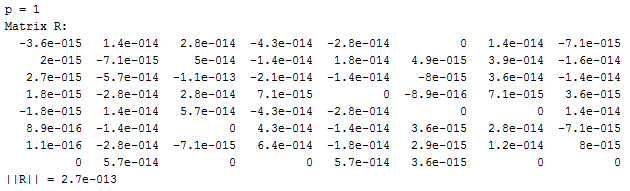
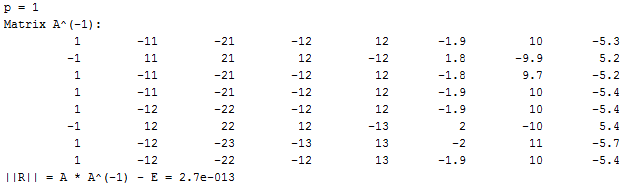
lab2 is done

diff --git a/lab2/lab2.tex b/lab2/lab2.tex
@@ -11,7 +11,7 @@
 \norm{R} = \max_k \sum_j |R_{kj}|.
 \]
 
-Используя подпрограммы \texttt{DECOMP} и \texttt{SOLVE}, вычислить $A^{-1}$ по заданной матрице $A$. Для различных значений $p$ вычислить нормы матриц $R$.
+Используя подпрограммы \textbf{DECOMP} и \textbf{SOLVE}, вычислить $A^{-1}$ по заданной матрице $A$. Для различных значений $p$ вычислить нормы матриц $R$.
 
 \section{Исходные данные}
 
@@ -38,12 +38,145 @@
 	$p = 0.00001$
 \end{multicols}
 
-\section{Вычисления}
+\section{Выполнение работы}
+
+В процессе работы была разработана программа на языке \textbf{C++}, вычисляющая искомую матрицу $R$ (см.~листинг~\ref{code:main}). Для упрощения взаимодействия с матрицами был разработан класс \textbf{Matrix} (см.~листинг~\ref{code:matrix}). Для нахождения обратной матрицы использовались подпрограммы \textbf{DECOMP} и \textbf{SOLVE}. На рисунках \ref{fig:p1} -- \ref{fig:p5} изображен вывод программы для заданных значений параметра $p$.
+
+\begin{figure}[H]
+\begin{center}
+	\includegraphics[scale=0.88]{1}
+	\caption{Вывод программы при $p = 1$}
+	\label{fig:p1}
+\end{center}
+\end{figure}
+
+\vspace{-1.3cm}
+
+\begin{figure}[H]
+\begin{center}
+	\includegraphics[scale=0.88]{2}
+	\caption{Вывод программы при $p = 0.1$}
+	\label{fig:p2}
+\end{center}
+\end{figure}
+
+\vspace{-1cm}
+
+\begin{figure}[H]
+\begin{center}
+	\includegraphics[scale=0.88]{3}
+	\caption{Вывод программы при $p = 0.01$}
+	\label{fig:p3}
+\end{center}
+\end{figure}
+
+\vspace{-1cm}
+
+\begin{figure}[H]
+\begin{center}
+	\includegraphics[scale=0.88]{4}
+	\caption{Вывод программы при $p = 0.001$}
+	\label{fig:p4}
+\end{center}
+\end{figure}
+
+\vspace{-1cm}
+
+\begin{figure}[H]
+\begin{center}
+	\includegraphics[scale=0.88]{5}
+	\caption{Вывод программы при $p = 0.00001$}
+	\label{fig:p5}
+\end{center}
+\end{figure}
+
+\newpage
 
 \section{Результаты}
 
+Сравним значения, получившиеся путем изменения параметра p:
+
+\begin{table}[H]
+\begin{center}
+	\caption{Полученные результаты}
+	\def\tabcolsep{15pt}
+	\begin{tabular}{|c|c|c|c|c|c|}
+		\hline
+		$p$ &
+		$1$ &
+		$0.1$ &
+		$0.01$ &
+		$0.001$ &
+		$0.00001$ \\
+		\hline
+		$||R||$ &
+		$2.7\cdot 10^{-13}$ &
+		$4.2\cdot 10^{-12}$ &
+		$3.4\cdot 10^{-11}$ &
+		$3.8\cdot 10^{-10}$ &
+		$2.4\cdot 10^{-8}$ \\
+	    \hline	
+	\end{tabular}
+	\label{tab:results}
+\end{center}
+\end{table}
+
+Из таблицы \ref{tab:results} видно, что при уменьшении параметра $p$ значения элементов матрицы $R$ увеличиваются, и, следовательно, ее норма растет. Выясним, сохраняется ли тенденция при еще меньших значениях параметра $p$. Для этого будем изменить $p$ в диапазоне $10^{-14}~\div~1$. Полученный график изменения нормы матрицы $R$ в зависимости от параметра $p$ в логарифмической шкале изображен на рисунке \ref{fig:p}. Из графика видно, что значение $||R||$ практически линейно зависит от параметра $p$.
+
+\begin{figure}[H]
+\begin{center}
+	\begin{tikzpicture} [every plot/.append style={thick}]
+		\begin{axis}[
+			height=0.4\textheight,
+			width=0.9\textwidth,
+			legend pos=north east,
+			xlabel={$\lg p$},
+			ylabel={$\lg ||R||$},
+			xlabel near ticks,
+			ylabel near ticks,
+			xmode=log,
+			log basis x=10,
+			xmin=1e-16,
+			xmax=1e2,
+			xtick={1e-14, 1e-12, 1e-10, 1e-8, 1e-6, 1e-4, 1e-2, 1e0},
+			ymode=log,
+			log basis y=10,
+			ymin=1e-16,
+			ymax=1e4,
+			grid=major
+		]
+		\addplot table[x=p,y=norm_r,col sep=comma]{data/p.csv};
+		\end{axis}
+	\end{tikzpicture}
+	\caption{Зависимость $||R||$ от $p$ в логарифмической шкале}
+	\label{fig:p}
+\end{center}
+\end{figure}
+
+
+
 \section{Выводы}
 
+Таким образом можно сделать вывод, что даже при очень небольшом измениии матрицы $A$, значения обратной матрицы $A^{-1}$ увеличиваются на порядок, что ведет к снижению точности и увеличению значений матрицы $R = A\cdot A^{-1} - E$ и ее нормы.
+
+\newpage
+
 \section*{Приложение}
+
+\captionof{lstlisting}{main.cpp}
+\lstinputlisting[
+	basicstyle=\scriptsize,	
+	numberstyle=\scriptsize,
+	label=code:main
+]{main.cpp}
+\parindent=1cm
+
+\captionof{lstlisting}{matrix.h}
+\lstinputlisting[
+	basicstyle=\scriptsize,	
+	numberstyle=\scriptsize,
+	label=code:matrix
+]{matrix.h}
+\parindent=1cm
 
 \end{document}

diff --git a/lab2/settings.tex b/lab2/settings.tex
@@ -1,4 +1,4 @@
-\documentclass[a4paper,14pt]{extarticle}
+\documentclass[a4paper,12pt]{extarticle}
 
 \usepackage[utf8x]{inputenc}
 \usepackage[T1,T2A]{fontenc}
@@ -17,6 +17,8 @@
 \usepackage{pgfplotstable}
 \usepackage[left=2cm,right=2cm,top=2cm,bottom=2cm,bindingoffset=0cm]{geometry}
 \usepackage{multicol}
+
+
 
 \renewcommand{\le}{\ensuremath{\leqslant}}
 \renewcommand{\leq}{\ensuremath{\leqslant}}
@@ -39,10 +41,10 @@
 \lstset{ %
 extendedchars=\true,
 keepspaces=true,
-language=C,						% choose the language of the code
-basicstyle=\footnotesize,		% the size of the fonts that are used for the code
+language=C++,						% choose the language of the code
+basicstyle=\scriptsize,		% the size of the fonts that are used for the code
 numbers=left,					% where to put the line-numbers
-numberstyle=\footnotesize,		% the size of the fonts that are used for the line-numbers
+numberstyle=\scriptsize,		% the size of the fonts that are used for the line-numbers
 stepnumber=1,					% the step between two line-numbers. If it is 1 each line will be numbered
 numbersep=5pt,					% how far the line-numbers are from the code
 backgroundcolor=\color{white},	% choose the background color. You must add \usepackage{color}
@@ -57,6 +59,7 @@ breakatwhitespace=false,		% sets if automatic breaks should only happen at white
 escapeinside={\%*}{*)},			% if you want to add a comment within your code
 postbreak=\raisebox{0ex}[0ex][0ex]{\ensuremath{\color{red}\hookrightarrow\space}},
 texcl=true,
+inputpath=code
 }
 
 \lstset{basicstyle=\footnotesize\ttfamily,breaklines=true}

diff --git a/lab2/code/main.cpp b/lab2/code/main.cpp
@@ -14,8 +14,7 @@ Matrix<T, N, M> findMatrixR(Matrix<T, N, M> matrix) {
 
 int main() {
     const T paramValues[] = {1, 0.1, 0.01, 0.001, 0.00001};
-
-    for (auto p : paramValues) {
+    for (double p : paramValues) {
         const T values[N][M] = {
                 {p + 13, 2,  8,  -7, 7,  5,  -7, -7},
                 {7,      2,  -4, 2,  3,  3,  -1, -2},
@@ -31,8 +30,8 @@ int main() {
         Matrix<T, N, M> matrixR = findMatrixR(matrixA);
 
         cout << "p = " << p << endl
-             << "Matrix R: " << endl << matrixR
-             << "||R|| = " << matrixR.norm() << endl << endl;
+             << "Matrix A^(-1): " << endl << matrix::invert(matrixA)
+             << "||R|| = A * A^(-1) - E = " << matrixR.norm() << endl << endl;
     }
 
     return 0;

diff --git a/lab2/code/matrix.h b/lab2/code/matrix.h
@@ -176,4 +176,4 @@ namespace matrix {
     }
 
 }
-#endif // MATRIX_H
+#endif
